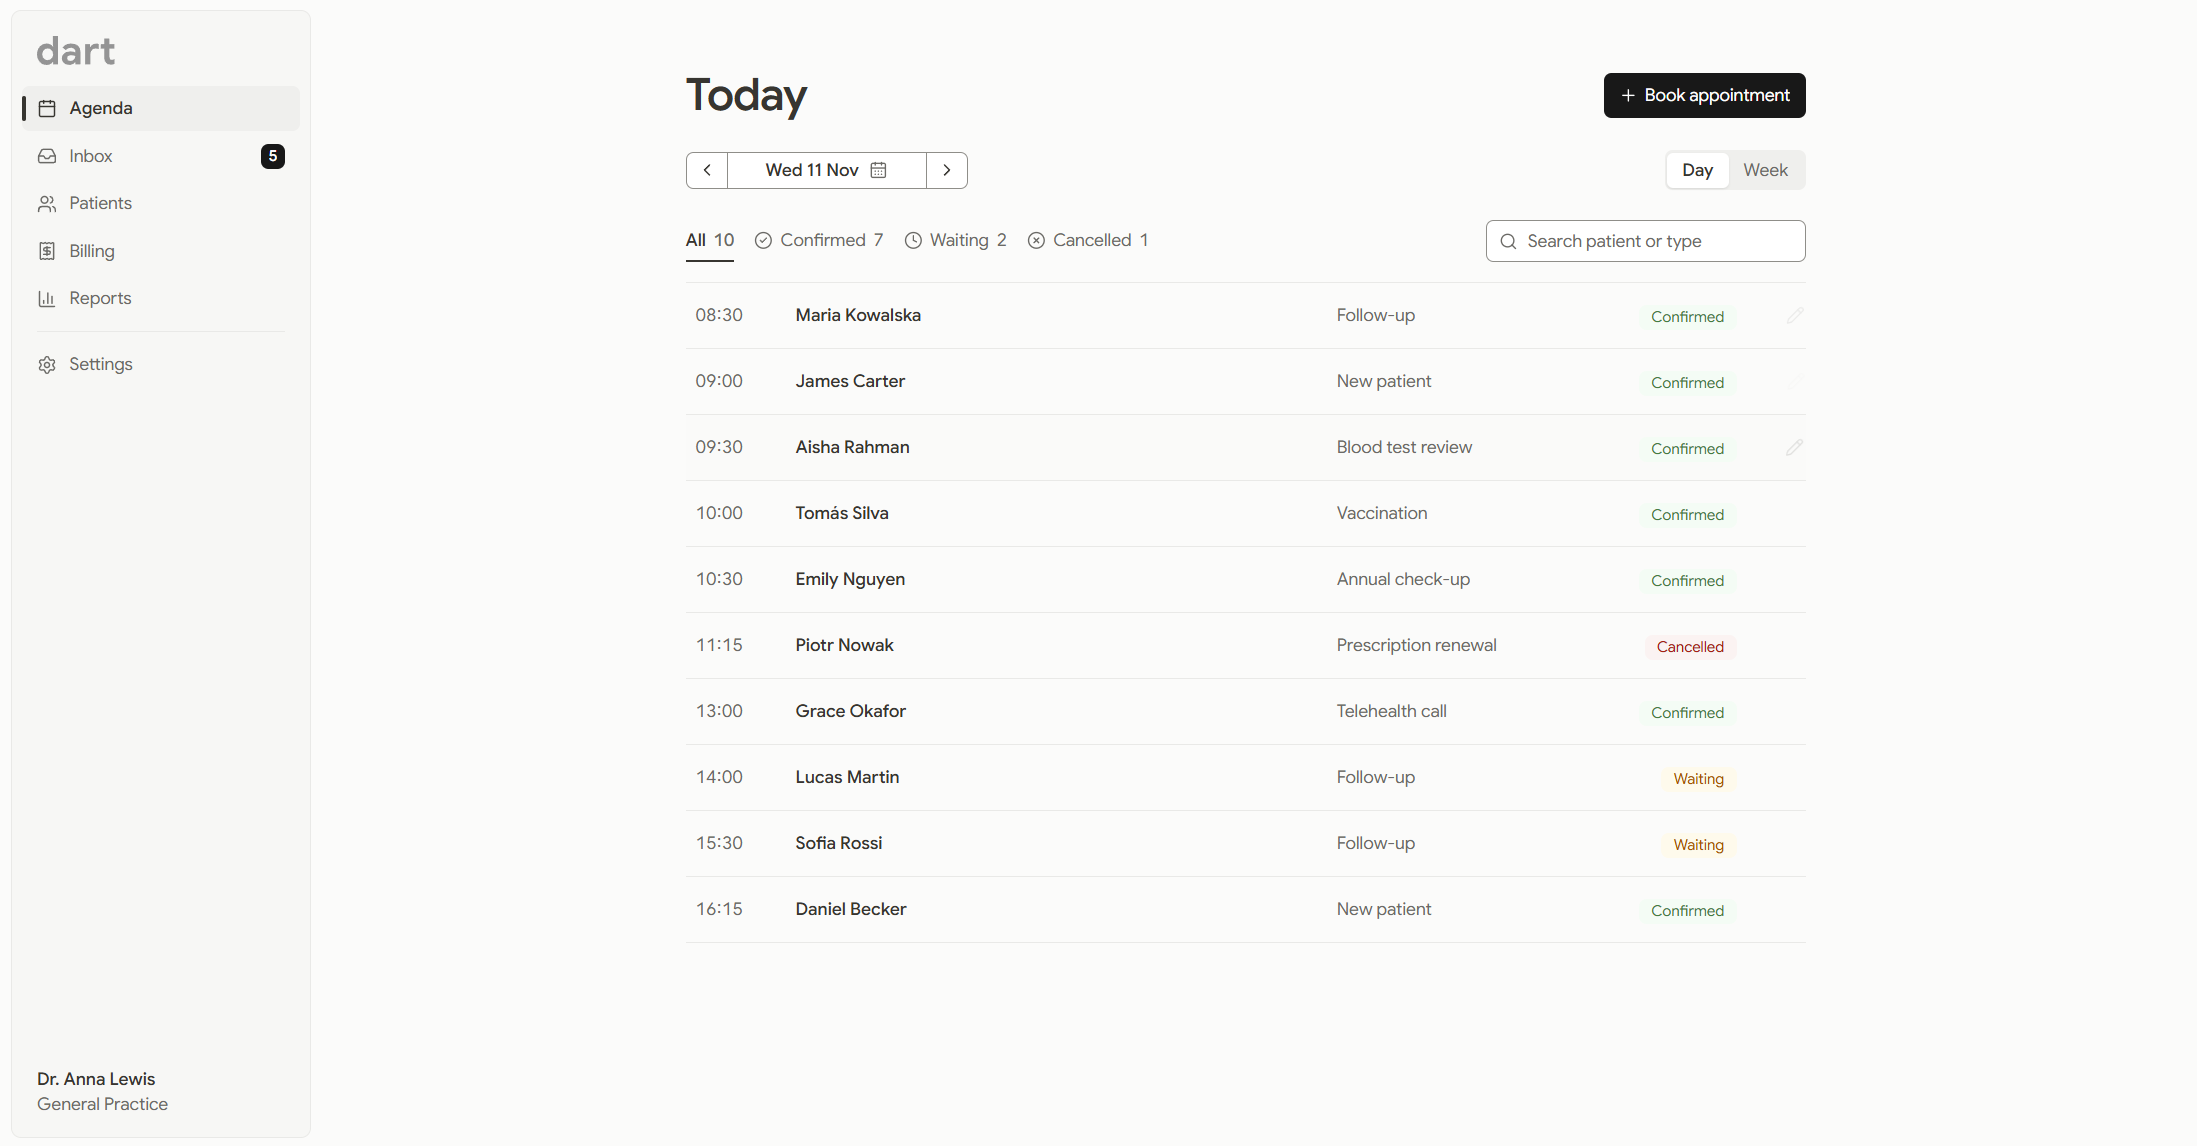
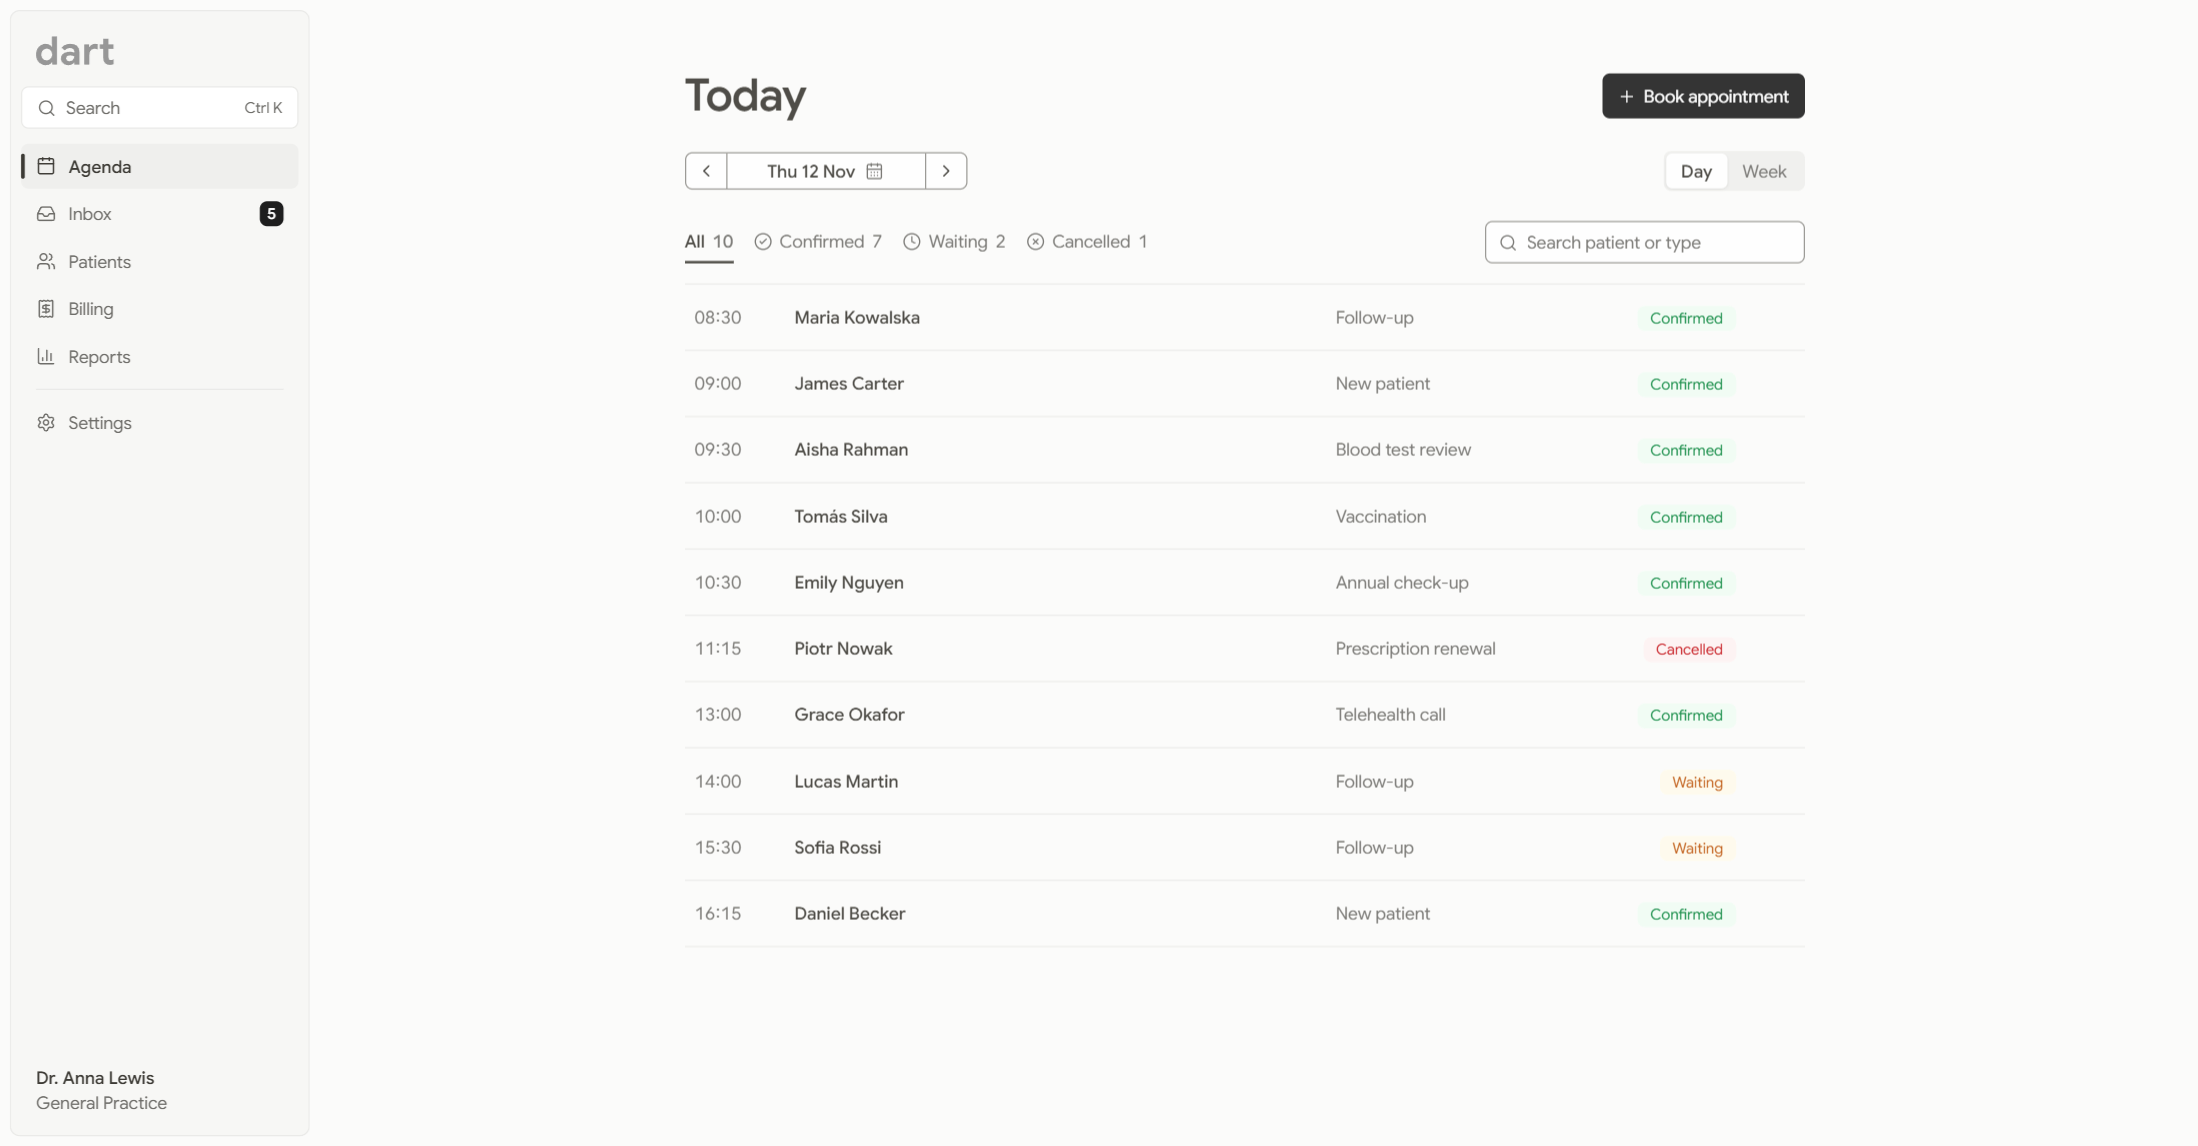
Update the README and screenshots

diff --git a/README.md b/README.md
@@ -18,11 +18,16 @@ Dart is a design and front-end prototype of the software a general practitioner 
 | --- | --- |
 | **Agenda** | Switch between a day view and a Monday-to-Friday week view, move to the previous or next day or week, or jump to any date. Filter by status (confirmed, waiting, cancelled), search by patient or type, and book, edit or delete appointments. A clear empty state when the day is free. |
 | **Inbox** | Patient messages, lab results and referral letters in one list, filtered by kind. Out-of-range lab values are flagged. Reply to messages and letters, message the patient about a result, or write a new message. A Sent tab keeps everything you've sent, and the sidebar shows the unread count. |
-| **Patients** | A sortable table (name, age, last visit) with search. Add new patients, and open any patient's record. |
+| **Patients** | A sortable table (name, age, last visit) with search. Add new patients, and open any patient's record. Renaming a patient keeps their appointments, messages and invoices linked, and two patients can't share a name. |
 | **Patient record** | Everything about one patient on one page: last visit, next appointment and balance at the top, then upcoming appointments, clinical notes, past visits, inbox items and messages, and invoices. Add notes, edit details, send a message or book an appointment from the record. Patient names in the Agenda link here. |
 | **Billing** | Outstanding, overdue and recently paid totals at a glance. Invoices filtered by status (unpaid, overdue, paid) and searchable by patient or invoice number. Create invoices, mark them as paid with a payment method, and send payment reminders. |
-| **Reports** | "This week" at a glance: appointments per day by outcome, busiest hours, revenue by appointment type. Every chart can be switched to a table. |
+| **Reports** | Any week at a glance, from this week back: revenue, appointments per day by outcome, no-shows, busiest hours and revenue by appointment type. Step between weeks or pick one from a calendar. Every chart can be switched to a table. |
 | **Settings** | Clinician name and specialty, working hours and appointment length. Changes only apply when you press Save, and can be discarded. Bookable times in the Agenda follow these settings, and they're remembered in the browser. |
+| **Search** | Press `Ctrl+K` (`⌘K` on a Mac) or use the search box in the sidebar to find any patient, appointment, invoice or inbox item, or to jump to an action or screen. Accents and word order don't matter, and it works entirely from the keyboard. |
+
+Booking, editing, deleting, sending and adding all confirm with a short note at the bottom of the screen, with an **Undo** button that puts things back exactly as they were.
+
+![Search everything, open over the Agenda](docs/screenshots/search.png)
 
 | Patient record | Billing |
 | --- | --- |
@@ -49,6 +54,10 @@ Dart is a design and front-end prototype of the software a general practitioner 
 **Rows, not cards.** Appointments, patients and invoices are lists you scan, so they're shown as rows with aligned columns. Cards would fit fewer items on screen and make comparing harder. The week view is the exception: there, small cards per day show how the week is filling up.
 
 **The patient is the center.** Every screen leads back to the patient record, and the record pulls in what the other screens hold: appointments, messages, results and invoices. A clinician shouldn't have to visit four screens to prepare for one consultation.
+
+**Undo instead of "Are you sure?".** Booking, saving, sending and adding happen straight away and then offer Undo for a few seconds. A confirmation question slows down every action to guard against the rare mistake; Undo keeps the everyday path fast and still makes mistakes easy to fix. Deleting is the one action that asks first as well, because it's the one people regret most.
+
+**Keyboard first.** `Ctrl+K` reaches any patient, appointment, invoice or screen from anywhere, and search is driven with ↑ ↓, Enter and Esc. The shortcut is printed on the sidebar's search box, so people learn it while using the mouse.
 
 **Accessible by default.** All text meets WCAG AA contrast (4.5:1), fields and icons meet 3:1, every action works with the keyboard with a visible focus ring, charts have a table view, and animations are reduced for people who turn them off in their system settings.
 
@@ -87,8 +96,11 @@ Then open the address shown in the terminal (usually http://localhost:5173).
 - [x] Inbox with replies and a Sent tab
 - [x] Patient records linked from the Agenda
 - [x] Billing with invoices, payments and reminders
-- [x] Weekly reports
-- [ ] **Quick search** with `Ctrl+K` to jump to any patient, appointment, invoice or action.
+- [x] Weekly reports, with past weeks
+- [x] Search everything with `Ctrl+K`
+- [x] Undo after every change
+- [ ] **Phones and small screens:** a collapsible sidebar and lists that stack into cards.
+- [ ] **Reset demo data** from Settings, to start a demo fresh.
 
 ---
 
